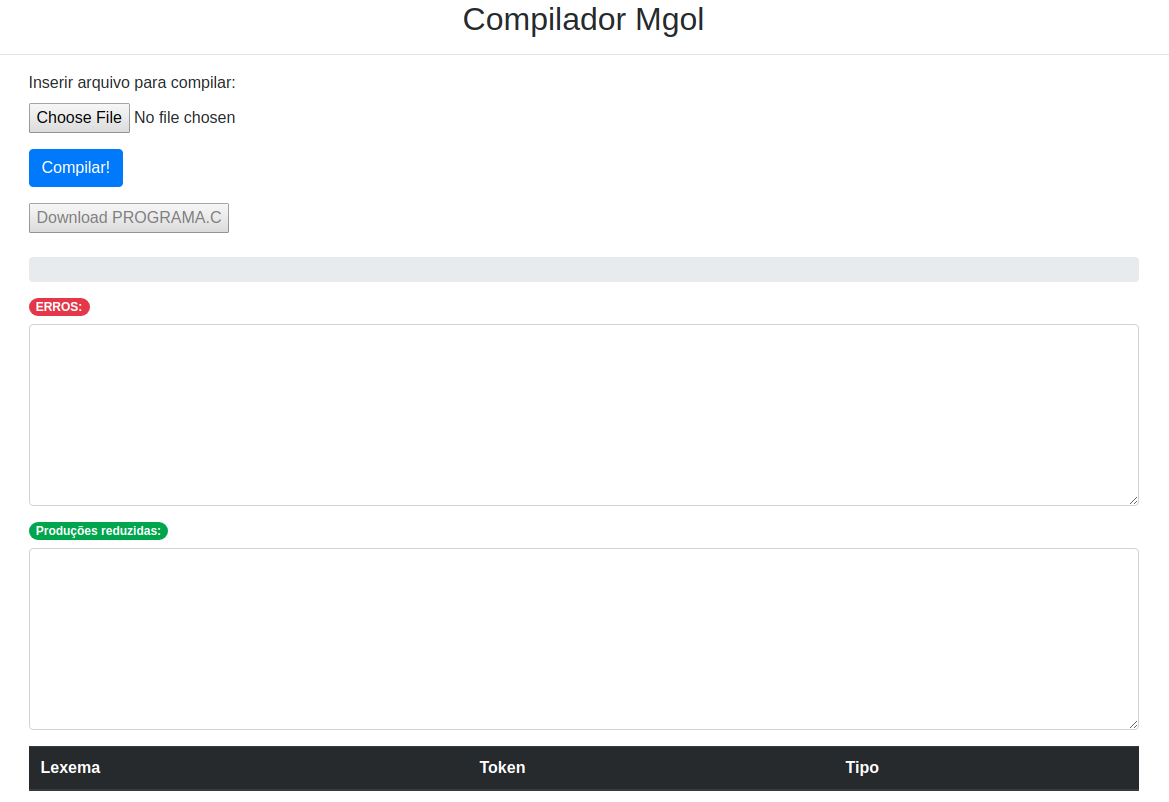
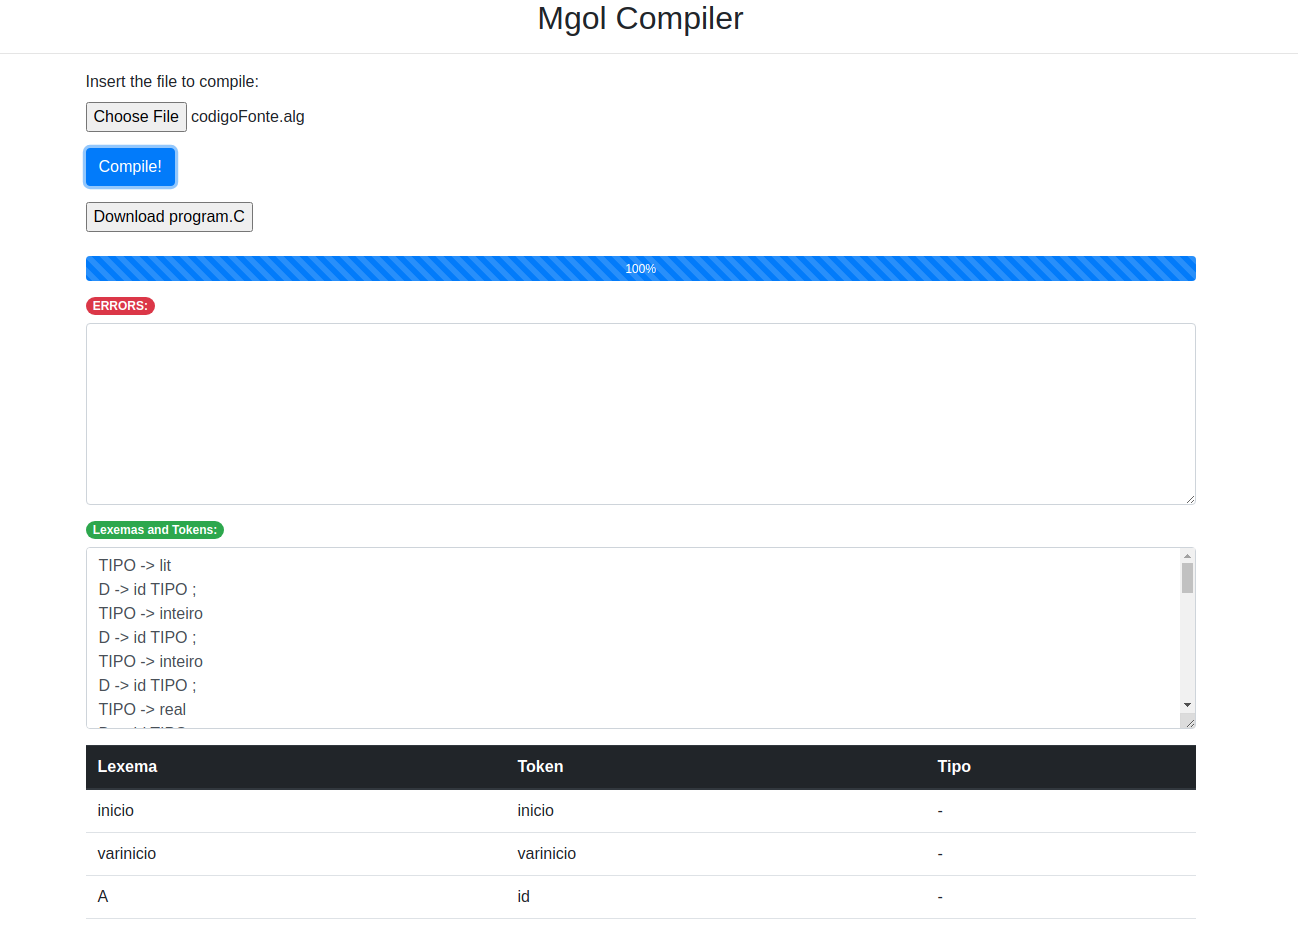
Modify the language from PT to US

diff --git a/src/index.html b/src/index.html
@@ -1,29 +1,29 @@
 <html>
 
 <head>
-    <title>Compilador Mgol</title>
+    <title>Mgol Compiler</title>
     <meta charset="UTF8" />
     <link rel="stylesheet" href="css/bootstrap.min.css">
 </head>
 
 <body>
     <center>
-        <h2>Compilador Mgol</h2>
+        <h2>Mgol Compiler</h2>
         <hr>
     </center>
     <div class="container">
         <form>
             <div class="form-group">
-                <label>Inserir arquivo para compilar:</label>
+                <label>Insert the file to compile:</label>
                 <input type="file" class="form-control-file" onchange='readProg(this)' />
             </div>
 
             <div class="form-group">
-                <button type="button" class="btn btn-primary" id="sendFile" onclick="compilar()">Compilar!</button>
+                <button type="button" class="btn btn-primary" id="sendFile" onclick="compilar()">Compile!</button>
             </div>
 
             <!-- <textarea id="text-val" rows="4">This is the content of my file</textarea><br /> -->
-            <input type="button" disabled=true id="dwn-btn" value="Download PROGRAMA.C" />
+            <input type="button" disabled=true id="dwn-btn" value="Download program.C" />
             
             <br/>
             <br/>
@@ -35,13 +35,12 @@
         </form>
 
         <div class="form-group">
-            <label for="exampleFormControlTextarea3"><span class="badge badge-pill badge-danger">ERROS:</span></label>
+            <label for="exampleFormControlTextarea3"><span class="badge badge-pill badge-danger">ERRORS:</span></label>
             <textarea class="form-control" id="log_erro" rows="7"></textarea>
         </div>
 
         <div class="form-group">
-            <label for="exampleFormControlTextarea3"><span class="badge badge-pill badge-success">Produções
-                    reduzidas:</span></label>
+            <label for="exampleFormControlTextarea3"><span class="badge badge-pill badge-success"> Lexemas and Tokens:</span></label>
             <textarea class="form-control" id="log_producoes" rows="7"></textarea>
         </div>
 

diff --git a/README.md b/README.md
@@ -1,8 +1,13 @@
 # Compiler
 ![License: MIT](https://img.shields.io/badge/License-MIT-yellow.svg)
 
-Compilador desenvolvido em Javascript que faz a compilação da linguagem Mgol e gera uma código fonte na linguagem C.
+Compiler developed in Javascript that compiles the Mgol language and generates source code in C language.
 
-A disciplina de compiladores preocupa-se em estudar técnicas e teorias para a construção de um compilador. Para tal, durante o semestre aprendemos sobre seus componentes, estudando aspectos teóricos e práticos em um estudo de caso. Como produto final da disciplina,eu e meu companheiro de graduação [Bruno César](https://github.com/brunocesaromax) desenvolvemos um compilador que recebe como entrada um arquivo fonte na linguagem Mgol, realiza a fase de análise e síntese gerando um arquivo objeto em linguagem C. O arquivo final é compilável em compilador C, ou seja, o código gerado está completo para compilação e execução.
+The compiler discipline is concerned with studying techniques and theories for building a compiler. To this end, during the semester we learn about its components, studying theoretical and practical aspects in a case study. As the final product of the course, my fellow undergraduate [Bruno César](https://github.com/brunocesaromax) and I developed a compiler that receives as input a source file in the Mgol language, performs the analysis and synthesis phase, generating a object file in C language. The final file is compilable in C compiler, that is, the generated code is complete for compilation and execution.
 
-![alt text](https://github.com/marcosfelipp/Compiler/blob/master/doc/Screenshot.png)
+![alt text](doc/Screenshot.png)
+
+### How to run
+
+Clone this repository and open the file src/index.html in browser. Choose the example file
+in /files and click in the button Compile!
